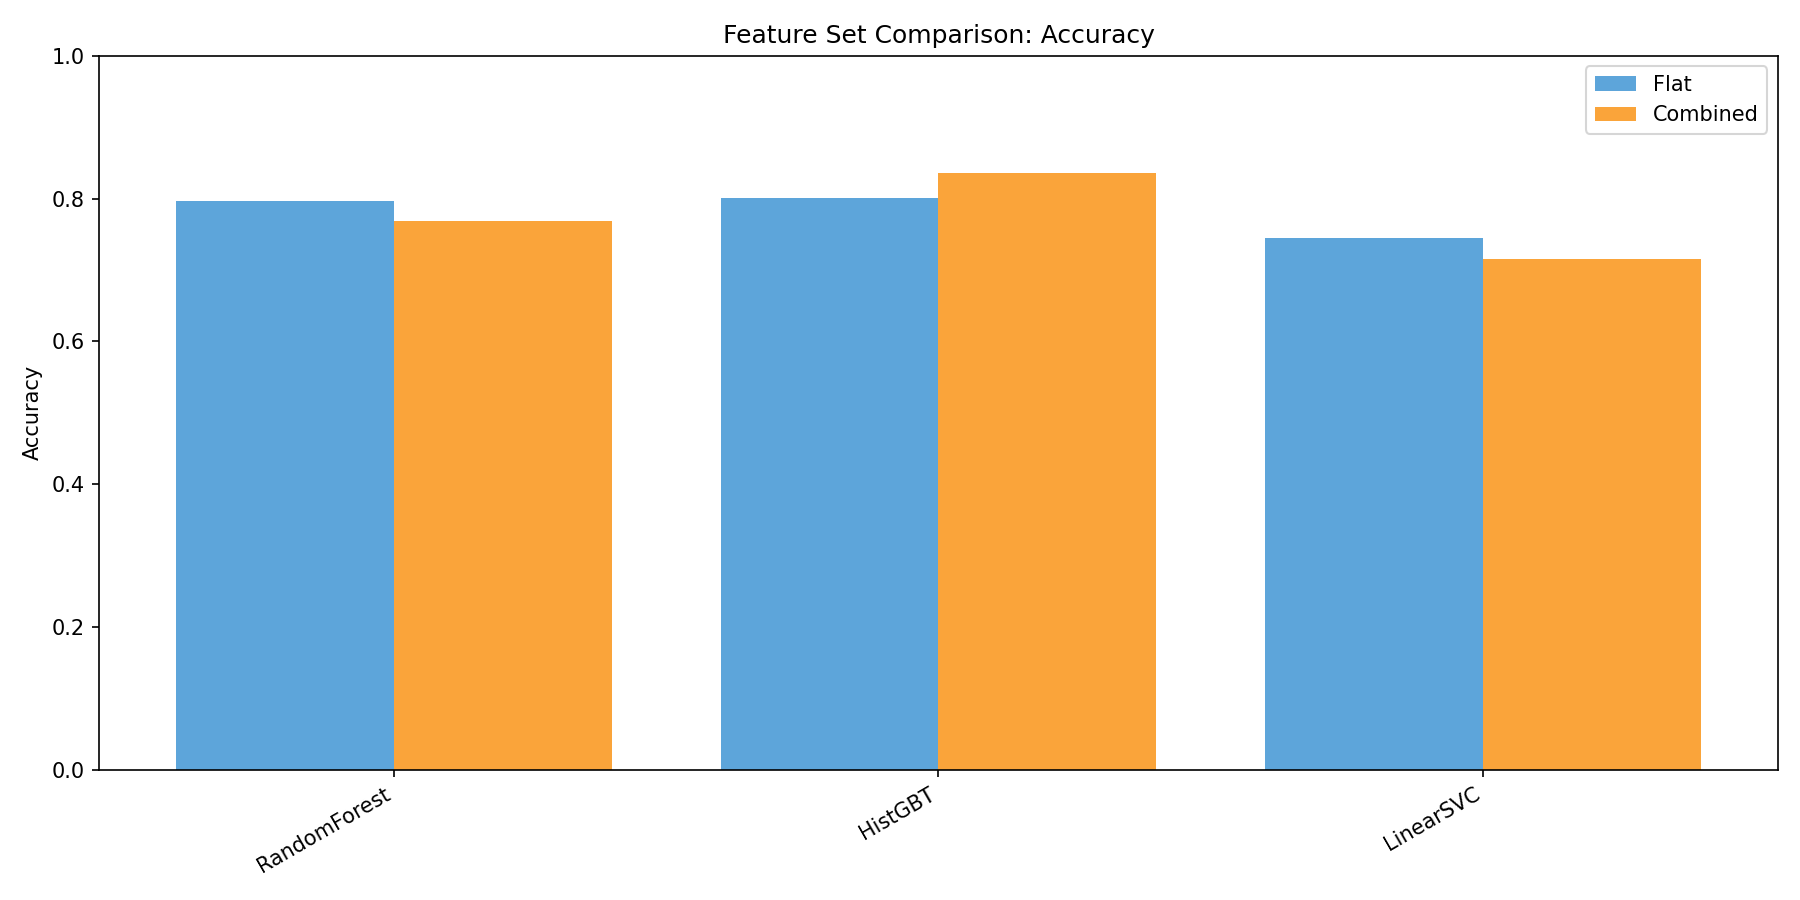
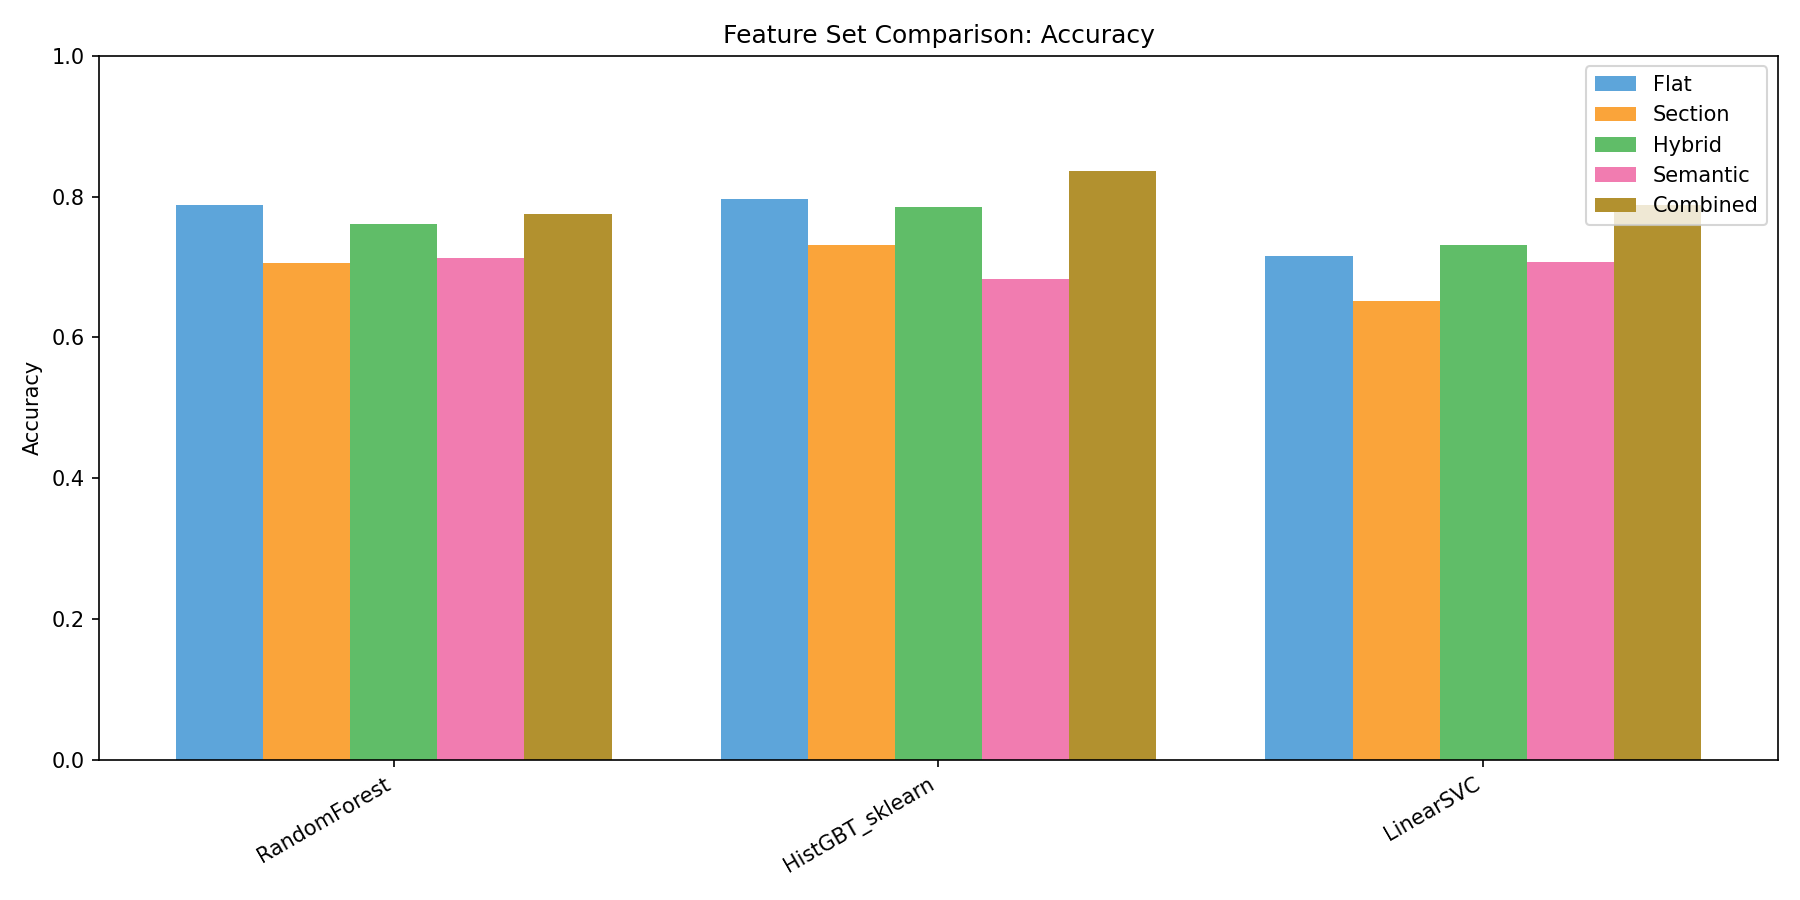
small fixes forgot to add

diff --git a/docs/architecture.md b/docs/architecture.md
@@ -36,9 +36,10 @@ the whole pipeline looks like this:
           +---------------+----------------+----------+
           |                   |                    |
    Stage 3: Mining     Stage 3: Clustering   Stage 4: Classification
-   - FP-Growth rules   - K-Means            - RF, HistGBT, SVC
-   - Co-occurrence     - Hierarchical        - model weights saved
-     network           - DBSCAN              - auto GPU detection
+   - FP-Growth rules   - K-Means            - RF, HistGBT_sklearn (CPU)
+   - Co-occurrence     - Hierarchical        - XGBoost HistGBT (GPU)
+     network           - DBSCAN              - LinearSVC (CPU)
+                                             - model weights saved
 ```
 
 ## the agents
@@ -65,9 +66,20 @@ this is where it gets interesting. we tried a bunch of different feature represe
 
 **combined** -- flat TF-IDF (4000 dense) + semantic (1546) = 5546 dims. **this is our best feature set** because it gets both the lexical signal from TF-IDF and the semantic signal from the transformer
 
+## GPU acceleration
+
+two things use GPU when available:
+
+1. **sentence transformer encoding** -- auto-detects MPS (mac) or CUDA (nvidia). falls back to CPU if nothing found
+2. **XGBoost classification** -- when CUDA GPU is detected, the pipeline asks if you want GPU-only training (XGBoost, ~1 min), CPU-only (sklearn RF+HistGBT+SVC, ~10 min), or both. sklearn classifiers dont have GPU support so thats the bottleneck
+
+our best result (0.810 macro-F1) came from sklearn HistGBT on CPU. XGBoost GPU gets ~0.789 -- slightly lower because the implementations differ internally. we keep both options because GPU is way faster for iteration but CPU gives the best final numbers
+
 ## model weight saving
 
 after training, all fitted classifiers get saved to `data/processed/models/trained_classifiers.pkl`. next time you run the pipeline it asks if you want to reuse those weights or train fresh. you can also do `--stage predict` to just load weights and evaluate instantly without any training at all.
+
+we also have pre-trained weights on [Dropbox](https://www.dropbox.com/scl/fo/0qtdqh2oa0ivsdro3hq1k/AIMU_1WjQov9Up4rsgdcIjY?rlkey=ulkfda1xyrpjyr01n9x0rg76w&st=8rkk1fu2&dl=0) that give the 0.810 result right out of the box
 
 ## files
 
